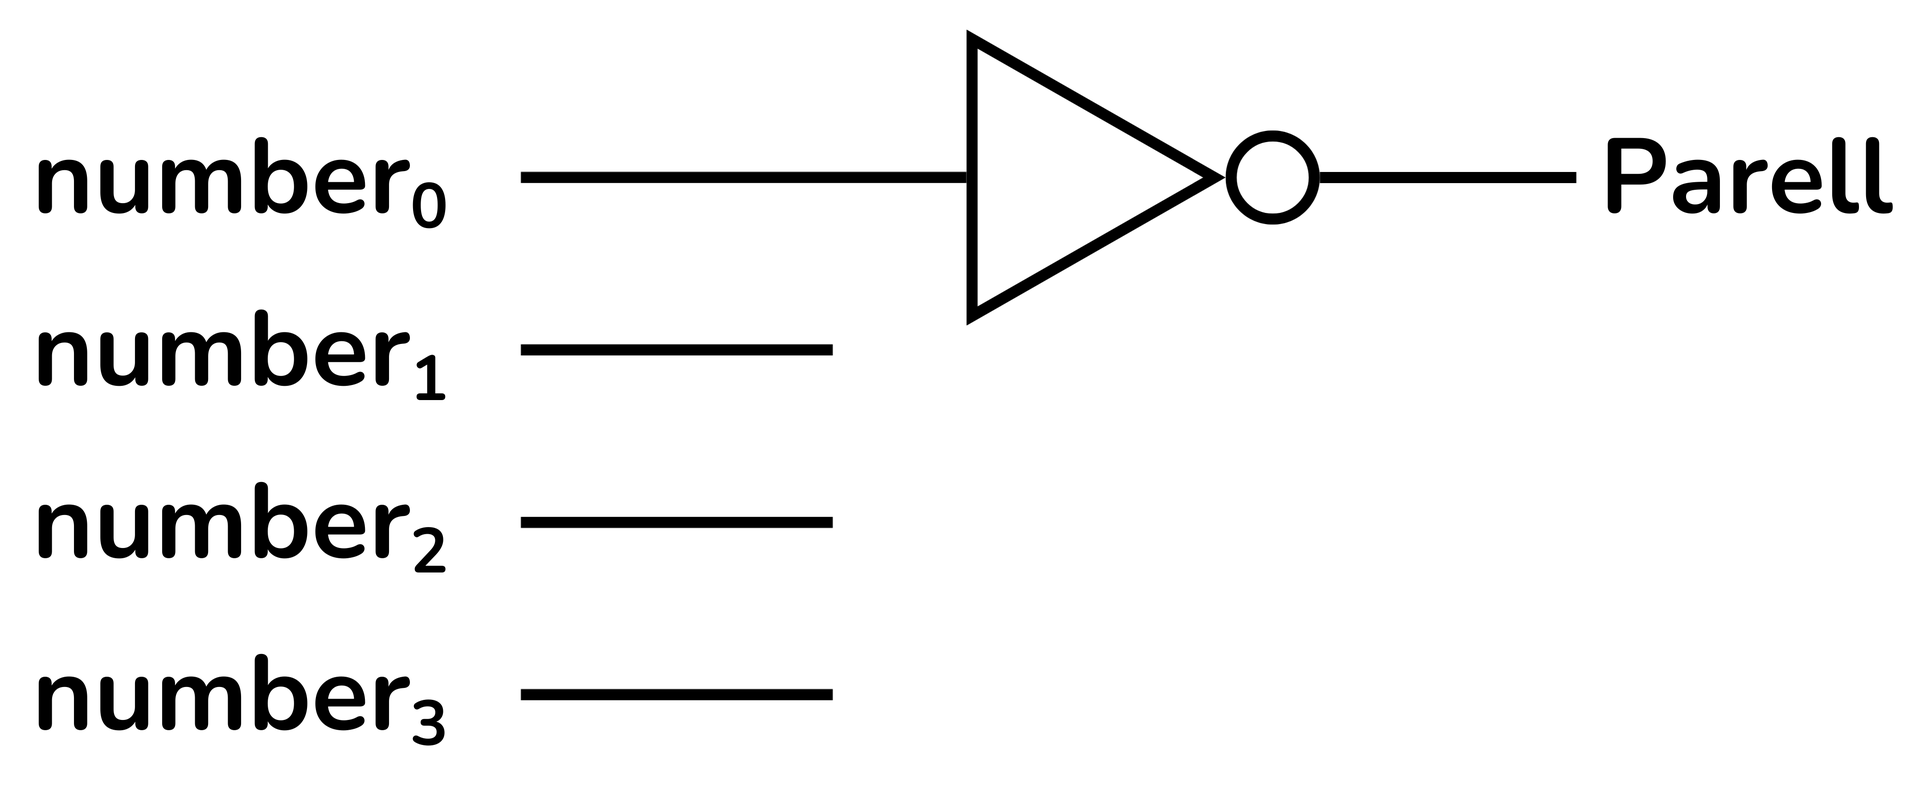
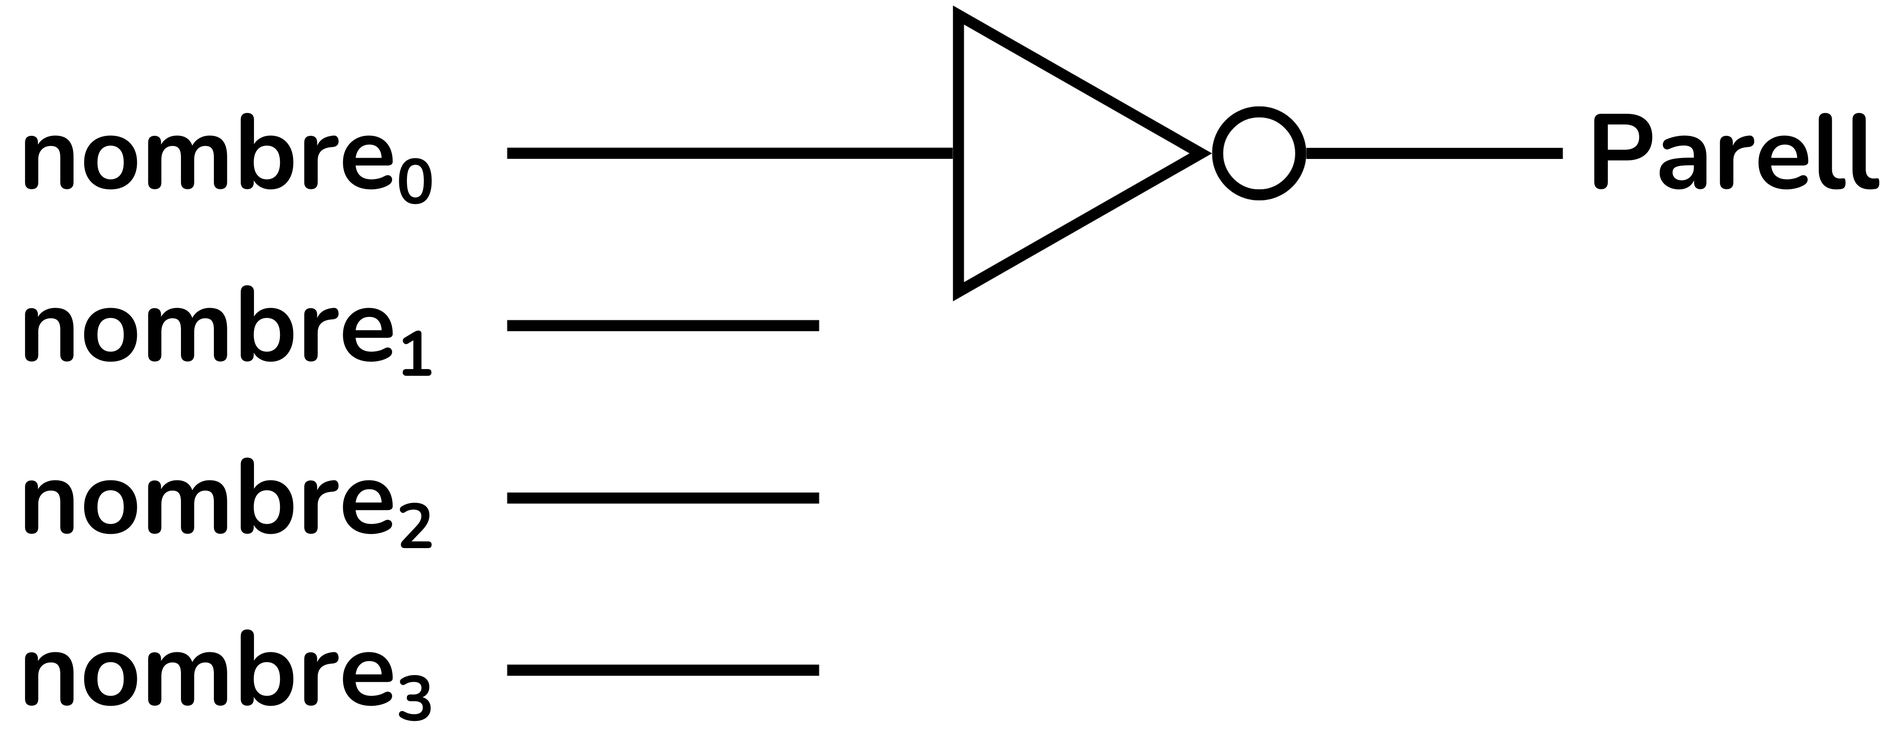
llest per PR Set

diff --git a/.vitepress/cache/deps/@theme_index.js b/.vitepress/cache/deps/@theme_index.js
@@ -9,38 +9,38 @@ import {
 } from "./chunk-I4O5PVBA.js";
 
 // node_modules/vitepress/dist/client/theme-default/index.js
-import "/home/cesc/zzz REPOSITORY/LlicoNovaCatedraChip/node_modules/vitepress/dist/client/theme-default/styles/fonts.css";
+import "/home/cesc/LlicoNovaCatedraChip/node_modules/vitepress/dist/client/theme-default/styles/fonts.css";
 
 // node_modules/vitepress/dist/client/theme-default/without-fonts.js
-import "/home/cesc/zzz REPOSITORY/LlicoNovaCatedraChip/node_modules/vitepress/dist/client/theme-default/styles/vars.css";
-import "/home/cesc/zzz REPOSITORY/LlicoNovaCatedraChip/node_modules/vitepress/dist/client/theme-default/styles/base.css";
-import "/home/cesc/zzz REPOSITORY/LlicoNovaCatedraChip/node_modules/vitepress/dist/client/theme-default/styles/icons.css";
-import "/home/cesc/zzz REPOSITORY/LlicoNovaCatedraChip/node_modules/vitepress/dist/client/theme-default/styles/utils.css";
-import "/home/cesc/zzz REPOSITORY/LlicoNovaCatedraChip/node_modules/vitepress/dist/client/theme-default/styles/components/custom-block.css";
-import "/home/cesc/zzz REPOSITORY/LlicoNovaCatedraChip/node_modules/vitepress/dist/client/theme-default/styles/components/vp-code.css";
-import "/home/cesc/zzz REPOSITORY/LlicoNovaCatedraChip/node_modules/vitepress/dist/client/theme-default/styles/components/vp-code-group.css";
-import "/home/cesc/zzz REPOSITORY/LlicoNovaCatedraChip/node_modules/vitepress/dist/client/theme-default/styles/components/vp-doc.css";
-import "/home/cesc/zzz REPOSITORY/LlicoNovaCatedraChip/node_modules/vitepress/dist/client/theme-default/styles/components/vp-sponsor.css";
-import VPBadge from "/home/cesc/zzz REPOSITORY/LlicoNovaCatedraChip/node_modules/vitepress/dist/client/theme-default/components/VPBadge.vue";
-import Layout from "/home/cesc/zzz REPOSITORY/LlicoNovaCatedraChip/node_modules/vitepress/dist/client/theme-default/Layout.vue";
-import { default as default2 } from "/home/cesc/zzz REPOSITORY/LlicoNovaCatedraChip/node_modules/vitepress/dist/client/theme-default/components/VPBadge.vue";
-import { default as default3 } from "/home/cesc/zzz REPOSITORY/LlicoNovaCatedraChip/node_modules/vitepress/dist/client/theme-default/components/VPButton.vue";
-import { default as default4 } from "/home/cesc/zzz REPOSITORY/LlicoNovaCatedraChip/node_modules/vitepress/dist/client/theme-default/components/VPDocAsideSponsors.vue";
-import { default as default5 } from "/home/cesc/zzz REPOSITORY/LlicoNovaCatedraChip/node_modules/vitepress/dist/client/theme-default/components/VPFeatures.vue";
-import { default as default6 } from "/home/cesc/zzz REPOSITORY/LlicoNovaCatedraChip/node_modules/vitepress/dist/client/theme-default/components/VPHomeContent.vue";
-import { default as default7 } from "/home/cesc/zzz REPOSITORY/LlicoNovaCatedraChip/node_modules/vitepress/dist/client/theme-default/components/VPHomeFeatures.vue";
-import { default as default8 } from "/home/cesc/zzz REPOSITORY/LlicoNovaCatedraChip/node_modules/vitepress/dist/client/theme-default/components/VPHomeHero.vue";
-import { default as default9 } from "/home/cesc/zzz REPOSITORY/LlicoNovaCatedraChip/node_modules/vitepress/dist/client/theme-default/components/VPHomeSponsors.vue";
-import { default as default10 } from "/home/cesc/zzz REPOSITORY/LlicoNovaCatedraChip/node_modules/vitepress/dist/client/theme-default/components/VPImage.vue";
-import { default as default11 } from "/home/cesc/zzz REPOSITORY/LlicoNovaCatedraChip/node_modules/vitepress/dist/client/theme-default/components/VPLink.vue";
-import { default as default12 } from "/home/cesc/zzz REPOSITORY/LlicoNovaCatedraChip/node_modules/vitepress/dist/client/theme-default/components/VPNavBarSearch.vue";
-import { default as default13 } from "/home/cesc/zzz REPOSITORY/LlicoNovaCatedraChip/node_modules/vitepress/dist/client/theme-default/components/VPSocialLink.vue";
-import { default as default14 } from "/home/cesc/zzz REPOSITORY/LlicoNovaCatedraChip/node_modules/vitepress/dist/client/theme-default/components/VPSocialLinks.vue";
-import { default as default15 } from "/home/cesc/zzz REPOSITORY/LlicoNovaCatedraChip/node_modules/vitepress/dist/client/theme-default/components/VPSponsors.vue";
-import { default as default16 } from "/home/cesc/zzz REPOSITORY/LlicoNovaCatedraChip/node_modules/vitepress/dist/client/theme-default/components/VPTeamMembers.vue";
-import { default as default17 } from "/home/cesc/zzz REPOSITORY/LlicoNovaCatedraChip/node_modules/vitepress/dist/client/theme-default/components/VPTeamPage.vue";
-import { default as default18 } from "/home/cesc/zzz REPOSITORY/LlicoNovaCatedraChip/node_modules/vitepress/dist/client/theme-default/components/VPTeamPageSection.vue";
-import { default as default19 } from "/home/cesc/zzz REPOSITORY/LlicoNovaCatedraChip/node_modules/vitepress/dist/client/theme-default/components/VPTeamPageTitle.vue";
+import "/home/cesc/LlicoNovaCatedraChip/node_modules/vitepress/dist/client/theme-default/styles/vars.css";
+import "/home/cesc/LlicoNovaCatedraChip/node_modules/vitepress/dist/client/theme-default/styles/base.css";
+import "/home/cesc/LlicoNovaCatedraChip/node_modules/vitepress/dist/client/theme-default/styles/icons.css";
+import "/home/cesc/LlicoNovaCatedraChip/node_modules/vitepress/dist/client/theme-default/styles/utils.css";
+import "/home/cesc/LlicoNovaCatedraChip/node_modules/vitepress/dist/client/theme-default/styles/components/custom-block.css";
+import "/home/cesc/LlicoNovaCatedraChip/node_modules/vitepress/dist/client/theme-default/styles/components/vp-code.css";
+import "/home/cesc/LlicoNovaCatedraChip/node_modules/vitepress/dist/client/theme-default/styles/components/vp-code-group.css";
+import "/home/cesc/LlicoNovaCatedraChip/node_modules/vitepress/dist/client/theme-default/styles/components/vp-doc.css";
+import "/home/cesc/LlicoNovaCatedraChip/node_modules/vitepress/dist/client/theme-default/styles/components/vp-sponsor.css";
+import VPBadge from "/home/cesc/LlicoNovaCatedraChip/node_modules/vitepress/dist/client/theme-default/components/VPBadge.vue";
+import Layout from "/home/cesc/LlicoNovaCatedraChip/node_modules/vitepress/dist/client/theme-default/Layout.vue";
+import { default as default2 } from "/home/cesc/LlicoNovaCatedraChip/node_modules/vitepress/dist/client/theme-default/components/VPBadge.vue";
+import { default as default3 } from "/home/cesc/LlicoNovaCatedraChip/node_modules/vitepress/dist/client/theme-default/components/VPButton.vue";
+import { default as default4 } from "/home/cesc/LlicoNovaCatedraChip/node_modules/vitepress/dist/client/theme-default/components/VPDocAsideSponsors.vue";
+import { default as default5 } from "/home/cesc/LlicoNovaCatedraChip/node_modules/vitepress/dist/client/theme-default/components/VPFeatures.vue";
+import { default as default6 } from "/home/cesc/LlicoNovaCatedraChip/node_modules/vitepress/dist/client/theme-default/components/VPHomeContent.vue";
+import { default as default7 } from "/home/cesc/LlicoNovaCatedraChip/node_modules/vitepress/dist/client/theme-default/components/VPHomeFeatures.vue";
+import { default as default8 } from "/home/cesc/LlicoNovaCatedraChip/node_modules/vitepress/dist/client/theme-default/components/VPHomeHero.vue";
+import { default as default9 } from "/home/cesc/LlicoNovaCatedraChip/node_modules/vitepress/dist/client/theme-default/components/VPHomeSponsors.vue";
+import { default as default10 } from "/home/cesc/LlicoNovaCatedraChip/node_modules/vitepress/dist/client/theme-default/components/VPImage.vue";
+import { default as default11 } from "/home/cesc/LlicoNovaCatedraChip/node_modules/vitepress/dist/client/theme-default/components/VPLink.vue";
+import { default as default12 } from "/home/cesc/LlicoNovaCatedraChip/node_modules/vitepress/dist/client/theme-default/components/VPNavBarSearch.vue";
+import { default as default13 } from "/home/cesc/LlicoNovaCatedraChip/node_modules/vitepress/dist/client/theme-default/components/VPSocialLink.vue";
+import { default as default14 } from "/home/cesc/LlicoNovaCatedraChip/node_modules/vitepress/dist/client/theme-default/components/VPSocialLinks.vue";
+import { default as default15 } from "/home/cesc/LlicoNovaCatedraChip/node_modules/vitepress/dist/client/theme-default/components/VPSponsors.vue";
+import { default as default16 } from "/home/cesc/LlicoNovaCatedraChip/node_modules/vitepress/dist/client/theme-default/components/VPTeamMembers.vue";
+import { default as default17 } from "/home/cesc/LlicoNovaCatedraChip/node_modules/vitepress/dist/client/theme-default/components/VPTeamPage.vue";
+import { default as default18 } from "/home/cesc/LlicoNovaCatedraChip/node_modules/vitepress/dist/client/theme-default/components/VPTeamPageSection.vue";
+import { default as default19 } from "/home/cesc/LlicoNovaCatedraChip/node_modules/vitepress/dist/client/theme-default/components/VPTeamPageTitle.vue";
 
 // node_modules/vitepress/dist/client/theme-default/composables/local-nav.js
 import { onContentUpdated } from "vitepress";

diff --git a/circuits-digitals/src/Inici/instruccions.md b/circuits-digitals/src/Inici/instruccions.md
@@ -17,16 +17,11 @@ Troba tot seguit les instruccions per solucionar els problemes i sotmetre'ls al 
 
 ## Inscripció a Jutge.org i al curs
 
-Per fer els exercicis proposats t'hauràs de registrar **gratuïtament** a la plataforma [jutge.org](https://jutge.org).
+Per poder accedir als exercicis proposats t'hauràs de registrar **gratuïtament** a la plataforma [jutge.org](https://jutge.org).
 
+Recorda que jutge.org és una plataforma docent de la UPC. El registre d'usuari és per fer el seguiment del teu progrés en els exercicis. No tenim cap interès comercial ni recopilem dades personals.
 
 <img src='./signin.png' alt="enroll" style="display:block; width:450px; margin:0 auto; border-radius: 8px; border:5px solid #999;" />
-
-<p style="text-align: center;">
-  <small><em>
-  Recorda que jutge.org és una plataforma docent de la UPC. El registre d'usuari és per fer el seguiment del teu progrés en els exercicis. No tenim cap interès comercial ni recopilem dades personals.
-  </em></small>
-</p>
 
 Un cop tinguis accés als recursos de jutge.org, et pots incriure al curs [Introduction to Digital Circuit Design](https://jutge.org/courses/JordiCortadella:IntroCircuits) des de la secció [Courses](https://jutge.org/courses) i clicant el botó "Enroll this course". 
 
@@ -53,7 +48,7 @@ Els exercicis estan ordenats per temes i cadascun té un codi identificatiu úni
 
 <img src='./codi.png' alt="codi" style="display:block; width:450px; margin:0 auto; border-radius: 8px; border:5px solid #999;" />
 
-També pots accedir als exercicis directament des de les lliçons a partir dels enllaços que hi trobaràs. Aquesta és una alternativa més ràpida, però recorda que primer has de tenir la sessió a jutge.org oberta.
+També pots accedir als exercicis directament des de les lliçons a partir dels enllaços que hi trobaràs. Aquesta és una alternativa més ràpida, però recorda que primer has d'haver obert la sessió a **jutge.org**.
 
 <img src='./enllaç.png' alt="enllaç" style="display:block; width:450px; margin:0 auto; border-radius: 8px; border:5px solid #999;" />
 
@@ -62,14 +57,14 @@ La  pàgina de l'exercici és com la següent:
 <img src='./exercici.png' alt="enllaç" style="display:block; width:600px; margin:0 auto; border-radius: 8px; border:5px solid #999;" />
 
 
-Hi trobaràs l'enunciat (*Statement*) que descriu l’exercici, aquest enunciat es pot descarregar en PDF o ZIP.
-També s'hi inclou una especificació (*Specification*) de les entrades i sortides que tindrà el circuit.
+Hi trobaràs l'**enunciat** (*Statement*) que descriu l’exercici, aquest enunciat es pot descarregar en PDF o ZIP.
+També s'hi inclou una **especificació** (*Specification*) que descriu les entrades i sortides que ha de tenir el circuit.
 El menú *New Submission* és per presentar la teva solució a l'exercici.
 
-Una vegada entès l’exercici hauràs de solucionar-lo utilitzant els coneixements que acabes d'aprendre.
+Una vegada entès l’exercici hauràs de solucionar-lo utilitzant els coneixements que has après a la lliçó.
 
 Per **crear una solució** farem servir [CircuitVerse](https://circuitverse.org/simulator), una plataforma gratuïta i de codi obert dissenyada per crear i simular circuits lògics digitals en línia.
-Amb aquesta eina dibuixarem el nostre circuit i l'exportarem per presentar-lo a **Jutge**.
+Amb aquesta eina **dibuixarem el nostre circuit i l'exportarem** per presentar-lo a Jutge.
 
 A CircuitVerse pots arrossegar portes lògiques al teu circuit, connectar-les i provar la taula de veritat. 
 
@@ -79,9 +74,9 @@ A CircuitVerse pots arrossegar portes lògiques al teu circuit, connectar-les i 
 
 <img src='./exportverilog.png' alt="enllaç" style="display:block; width:450px; margin:0 auto; border-radius: 8px; border:5px solid #999;" />
 
-*Verilog* és un llenguatge de descripció de hardware (*HDL - Hardware Description Language*, per les sigles en anglès) que s'utilitza per dissenyar circuits electrònics digitals com microprocessadors o components lògics.
+*Verilog* és un llenguatge de descripció de hardware (*HDL - Hardware Description Language*, per les sigles en anglès) que s'utilitza per descriure circuits electrònics digitals com microprocessadors o components lògics.
 
-**Presenta el teu exercici al Jutge**. Puja el fitxer que acabes de generar dins l'àrea New submission de l'exercici.
+**Presenta el teu exercici al Jutge**. Puja el fitxer que acabes de generar dins l'àrea ***New submission*** de l'exercici.
 
 
 <img src='./newsumbission.png' alt="enllaç" style="display:block; width:450px; margin:0 auto; border-radius: 8px; border:5px solid #999;" />
@@ -96,14 +91,14 @@ Acabat el procés, podràs veure el **veredicte i la correcció de Jutge**. Tant
 
 <img src='./veredicteerror.png' alt="enllaç" style="display:block; width:600px; margin:0 auto; border-radius: 8px; border:5px solid #999;" />
 
-La secció *hint* mostra pistes del que pot haver anat malament.
+Si el veredicte és desfavorable, la secció *hint* mostra pistes del que pot haver anat malament.
 
 Si la teva solució és correcta també se't mostrarà el circuit solució a la secció *Circuit modules*.
 La secció *Program* mostra el codi Verilog del circuit que has presentat.
 
 <img src='./veredictecorrectecircuitiprogram.png' alt="enllaç" style="display:block; width:600px; margin:0 auto; border-radius: 8px; border:5px solid #999;" />
 
-**Pots tornar-ho a provar** tantes vegades com calgui. A la finestra de Submission s'anotaran el nombre total d'arxius i correccions i es podran veure clicant al número de submission (S001,S002…)
+**Pots tornar-ho a provar** tantes vegades com calgui. A la finestra de *Submission* s'anotaran el nombre total d'arxius i correccions. Podràs visualitzar-los clicant al número de submission (S001,S002…)
 
 El nostre Jutge té diferents veredictes en funció de del circuit presentat codi enviat. Els més habituals són els següents:
 

diff --git a/circuits-digitals/src/CircCombin/nombres.md b/circuits-digitals/src/CircCombin/nombres.md
@@ -16,15 +16,15 @@ Un nombre parell és divisible per 2, i en notació binària es reconeix fàcilm
 
 La **variable d'entrada** al circuit és:
 
-$number[3:0]= [number_3 \; number_2 \; number_1 \; number_0]$
+$nombre[3:0]= [nombre_3 \; nombre_2 \; nombre_1 \; nombre_0]$
 
-El bit menys significatiu (**LSB**) és $number_0$.
+El bit menys significatiu (**LSB**) és $nombre_0$.
 
 La **variable de sortida** del circuit la és un sol bit $Parell$.
 
 La taula següent recull uns quants exemples d'entrades i sortides que il·lustren el comportament desitjat del circuit. La taula de veritat completa tindria 16 files.
 
-|**$number$**|**Nombre en decimal**|$number_0$ (LSB)|Paritat| $Parell$|
+|**$nombre$**|**Nombre en decimal**|$nombre_0$ (LSB)|Paritat| $Parell$|
 |:---:|:---:|:---:|---|:---:|
 |0000 | 0  | 0 | és Parell| 1 
 |0001 | 1  | 1 | és Senar | 0
@@ -33,18 +33,18 @@ La taula següent recull uns quants exemples d'entrades i sortides que il·lustr
 |1110 | 14 | 0 | és Parell| 1 
 |1111 | 15 | 1 | és Senar | 0
 
-Construir el circuit és força directe, la sortida $Parell$ s'ha d'activar (valor '1') si i només si $number[0]$ té el valor '0', independentment del valor de la resta de bits de $number$.
+Construir el circuit és força directe, la sortida $Parell$ s'ha d'activar (valor '1') si i només si $nombre[0]$ té el valor '0', independentment del valor de la resta de bits de $nombre$.
 
-La sortida és doncs la negació de $number_0$:
+La sortida és doncs la negació de $nombre_0$:
 
-$Parell=\overline{number_0}$
+$Parell=\overline{nombre_0}$
 
-El circuit s'implementa amb una sola porta lògica NOT al bit $number_0$.
+El circuit s'implementa amb una sola porta lògica NOT al bit $nombre_0$.
 
 
 
 <img src='./nombres_exemple1.png' alt="Circuit desplaçador"  style="display:block; height:130px; margin:0 auto; border-radius: 8px;"/>
-
+<br>
 <center><i>Circuit digital que desplaça una posició cap a l'esquerra</i></center>
 
 
@@ -530,18 +530,15 @@ Per a la sortida $residu_2$ identifiquem 2 grups en el seu mapa de Karnaugh.
   </tbody>
 </table>
 
-
 Així doncs, l'expressió booleana simplificada per a $residu_2$ tindrà 2 termes:
 
 $residu_2=  n_2 \overline{n_1} + \overline{n_3} n_2$
 
 A partir d'aquestes tres expressions podem emprar les portes lògiques per crear el circuit digital que implementarà la funció $n \mod{7}$.
 
-
 <img src='./nombres_exemple2.png' alt="Circuit digital" style="display:block; height:600px; margin:0 auto; border-radius: 8px;"/>
 
 <center><i>Circuit digital que implementa la funció n mod 7</i></center>
-
 
 ## Exercicis a Jutge.org: [Introduction to Digital Circuit Design](https://jutge.org/courses/JordiCortadella:IntroCircuits)
 

diff --git a/circuits-digitals/src/Intro/circuitsdigitals.md b/circuits-digitals/src/Intro/circuitsdigitals.md
@@ -16,14 +16,15 @@ Les **portes lògiques** són petits circuits que efectuen operacions lògiques 
 
 |**Porta lògica**|**Símbol**                           |**Expressió Lògica**       |**Descripció**
 |------ |------                                        |:---:                      |------
-|Buffer |<img src="./Buffer_ANSI_Labelled.svg.png"/>   |$A$                        |Retorna el mateix bit
-|NOT    |<img src="./NOT_ANSI_Labelled.svg.png"/>      |$\bar{A}$                  |Inverteix el bit
-|AND    |<img src="./AND_ANSI_Labelled.svg.png"/>      |$A·B$                      |1 si les dues entrades són 1
-|OR     |<img src="./OR_ANSI_Labelled.svg.png"/>       |$A+B$                      |1 si almenys una entrada és 1
-|NAND   |<img src="./NAND_ANSI_Labelled.svg.png"/>     |$\overline{A·B}$           |AND invertit (combinació d'AND i NOT)
-|NOR    |<img src="./NOR_ANSI_Labelled.svg.png"/>      |$\overline{A+B}$           |OR invertit (combinació d'OR i NOT)
-|XOR    |<img src="./XOR_ANSI_Labelled.svg.png"/>      |$A·\bar{B}+\bar{A}·B$      |1 si les entrades són diferents
-|XNOR   |<img src="./XNOR_ANSI_Labelled.svg.png"/>     |$(A·B)+(\bar{A}·\bar{B})$  |1 si les entrades són iguals
+|Buffer |<img src="./Buffer_ANSI_Labelled.png"/>   |$A$                        |Retorna el mateix bit
+|NOT    |<img src="./NOT_ANSI_Labelled.png"/>      |$\bar{A}$                  |Inverteix el bit
+|AND    |<img src="./AND_ANSI_Labelled.png"/>      |$A·B$                      |1 si les dues entrades són 1
+|OR     |<img src="./OR_ANSI_Labelled.png"/>       |$A+B$                      |1 si almenys una entrada és 1
+|NAND   |<img src="./NAND_ANSI_Labelled.png"/>     |$\overline{A·B}$           |AND invertit (combinació d'AND i NOT)
+|NOR    |<img src="./NOR_ANSI_Labelled.png"/>      |$\overline{A+B}$           |OR invertit (combinació d'OR i NOT)
+|XOR    |<img src="./XOR_ANSI_Labelled.png"/>      |$A·\bar{B}+\bar{A}·B$      |1 si les entrades són diferents
+|XNOR   |<img src="./XNOR_ANSI_Labelled.png"/>     |$(A·B)+(\bar{A}·\bar{B})$  |1 si les entrades són iguals
+
 <!-- Imatges de ( https://en.wikipedia.org/wiki/Logic_gate) resum, notes o total.*/-->
 
 Una **expressió lògica** és una expressió que defineix una sortida booleana a partir d’un conjunt de variables d’entrada binàries (0 o 1). Per descriure aquesta relació s’utilitzen operacions lògiques com AND, OR i NOT.

diff --git a/circuits-digitals/src/Intro/boole.md b/circuits-digitals/src/Intro/boole.md
@@ -29,9 +29,7 @@ Els operadors booleans es poden representar de diferents maneres segons l’àmb
 
 ### NOT o Negació:
 
-La negació de $A$ es pot expressar de diferents maneres depenent de l'ambit d'aplicació de l'àlgebra de boole.
-
-Per exemple, per la variable boolena $A$:
+La negació d'una variable booleana $A$ es pot expressar de diferents maneres depenent de l'ambit d'aplicació de l'àlgebra de boole.
 
 $\bar{A}$
 
@@ -45,13 +43,19 @@ La negació inverteix el valor de l'entrada. La taula de veritat es correspòn a
 | 1 | 0  |
 
 ### **AND**
-L'operador AND també s'anomena multiplicació o conjunció lògica. s'expressa amb el símbol \"$·$\" o la simple juxtaposició.
+L'operador AND també s'anomena multiplicació o conjunció lògica. 
 
- Per exemple, per a les variables booleanes $A$ i $B$:
+Per exemple, per a les variables booleanes $A$ i $B$ s'expressa amb el símbol \"$·$\" o la simple juxtaposició.
 
 $A·B$
 
-(o també $AB$ o bé $A∧B$)
+o també
+
+$AB$
+
+o bé
+ 
+$A∧B$
 
 La taula de veritat es correspon amb la porta lògica AND. La sortida és '$1$' només si totes les entrades són '$1$'.
 
@@ -62,14 +66,16 @@ La taula de veritat es correspon amb la porta lògica AND. La sortida és '$1$' 
 | 1 | 0 | 0     |
 | 1 | 1 | 1     |
 
-### OR o Suma Lògica:
-L'operador OR també es pot referir com a suma o disjunció lògica. S'expressa amb el símbol "$+$". 
+### OR
+L'operador OR també es pot referir com a suma o disjunció lògica.
 
-Per exemple, per a les variables booleanes $A$ i $B$:
+Per exemple, per a les variables booleanes $A$ i $B$ s'expressa amb el símbol "$+$". 
 
 $A + B$
 
-(o també $A∨B$)
+o també
+
+$A∨B$
 
 La taula de veritat es correspon amb la porta lògica OR. La sortida és '$1$' si almenys una de les entrades és '$1$'.
 

diff --git a/circuits-digitals/src/Inici/presentacio.md b/circuits-digitals/src/Inici/presentacio.md
@@ -9,13 +9,12 @@
 
 Aquest recurs està obert a tot l'alumnat preuniversitari interessat a aprendre les bases del disseny de circuits digitals.
 
-El contingut s'estructura com a suport teòric del curs [Introduction to Digital Circuit Design](https://jutge.org/courses/JordiCortadella:IntroCircuits), que proposa una sèrie d'exercicis.
-L'accés a les lliçons és lliure, per fer els exercicis t'hauràs de registrar **gratuïtament** a la plataforma [jutge.org](https://jutge.org).
+El contingut s'estructura com a suport teòric del curs *Introduction to Digital Circuit Design*, que proposa una sèrie d'exercicis.
+L'accés a les lliçons és lliure, però per fer els exercicis t'hauràs de registrar **gratuïtament** a la plataforma [jutge.org](https://jutge.org).
 
 [jutge.org](https://jutge.org) és una plataforma docent desenvolupada per la Universitat Politècnica de Catalunya (UPC). El registre d'usuari té com a única finalitat el seguiment del progrés en els exercicis didàctics, i no respon a cap interès comercial ni a la recopilació de dades personals.
 
-[jutge.org](https://jutge.org) ofereix altres [lliçons](https://lliçons.jutge.org/) com aquesta. També ofereix molts [cursos](https://jutge.org/courses) on hi trobaràs reculls d'exercicis que el Jutge avaluarà.
-
+[jutge.org](https://jutge.org) ofereix altres [lliçons](https://lliçons.jutge.org/) com aquesta.
 
 
 <!-- Aquesta imatge ha d'anar al final de cada lliçó, ja sigui amb aquesta línia o dins la signatura. Deixar comentat si ja està a la signatura-->

diff --git a/circuits-digitals/src/Intro/karnaugh.md b/circuits-digitals/src/Intro/karnaugh.md
@@ -369,7 +369,6 @@ Aquest mapa es pot anomenar mapa de reflexió (*reflection map*).
 
 Una altra manera molt efectiva d'estructurar un mapa de Karnaugh de 5 variables és fer-ne dos de 4 variables: un d'ells representa $𝐴=0$ i l'altre $𝐴=1$, i considerant-los superposats en una tercera dimensió.
 
-
 <table style="width: 100%; margin: 0 auto; border-collapse: collapse; text-align: center; background-color: transparent;">
 
   <tbody>
@@ -476,7 +475,10 @@ Una altra manera molt efectiva d'estructurar un mapa de Karnaugh de 5 variables 
   </tbody>
 </table>
 
+I visualitzar-los de la manera següent. 
 
+<img src='./kmap5var.png' alt="Karnaugh 5 variables" style="display:block; width:400px; margin:0 auto; border-radius: 8px;"/>
+<center><i>Mapa de Karnaugh 5 variables</i></center>
 
 
 
